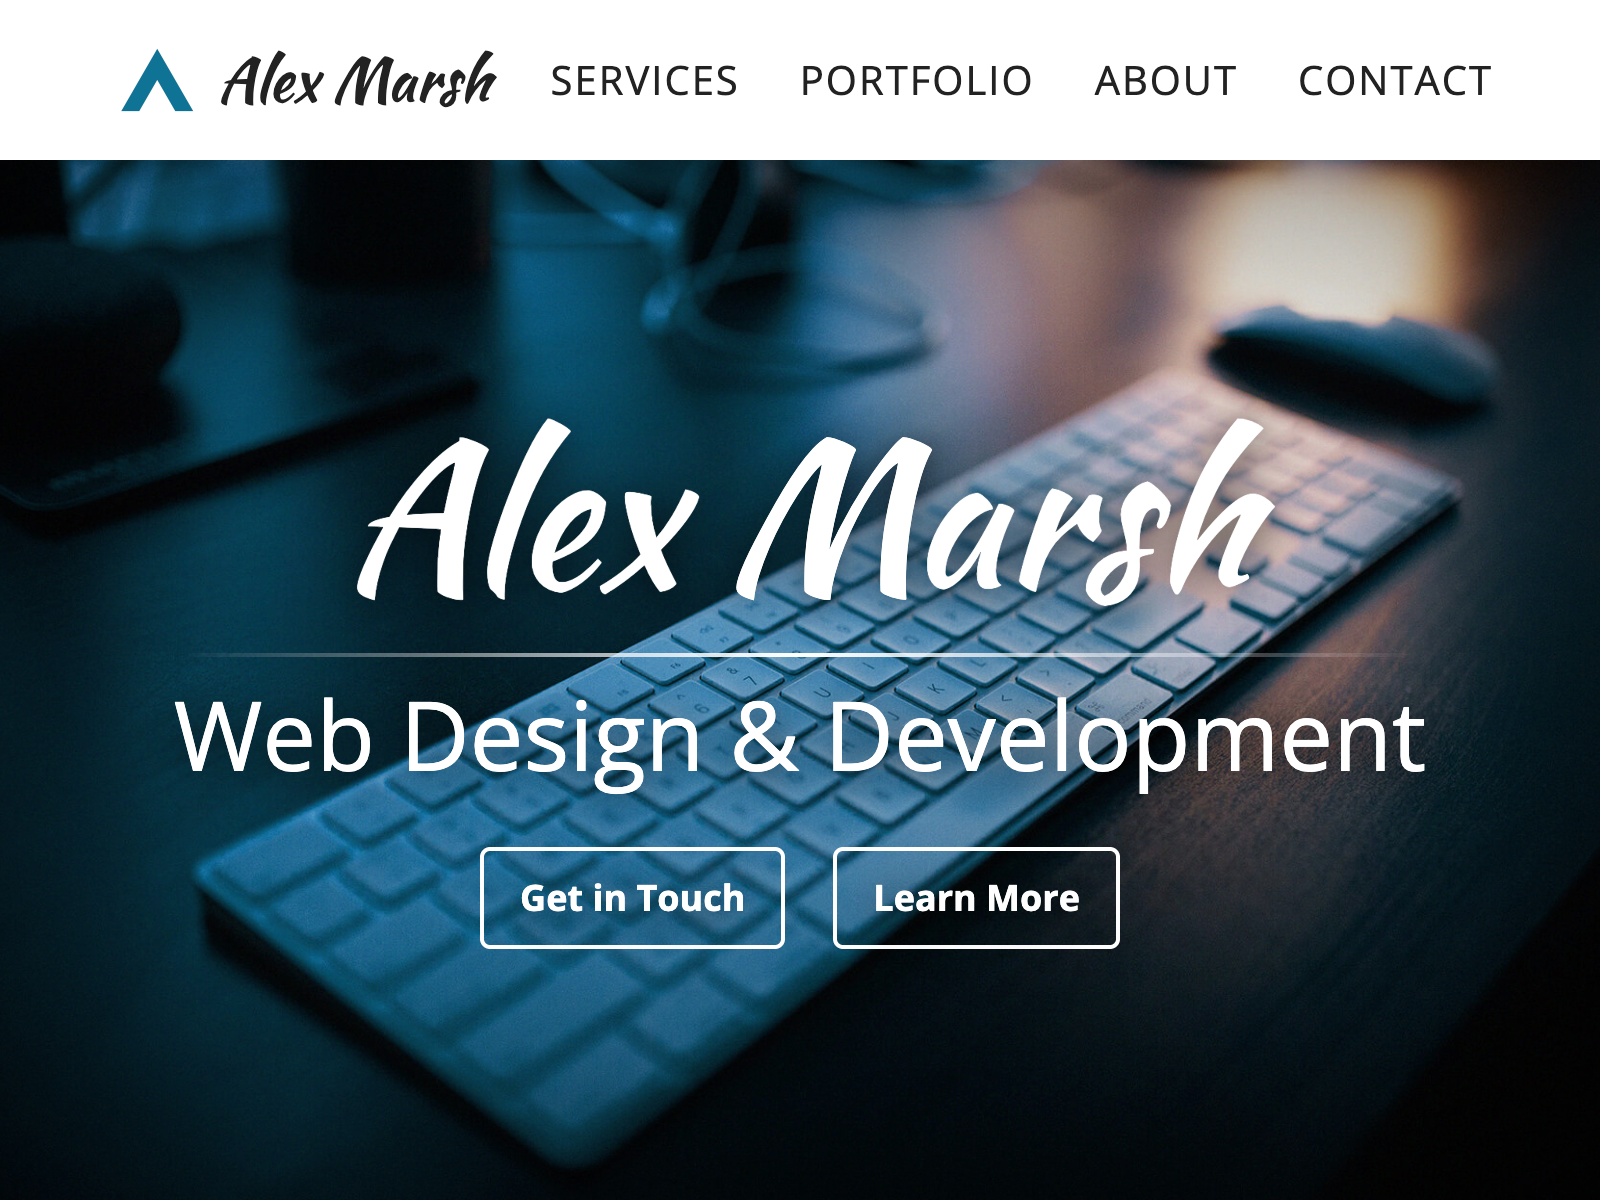
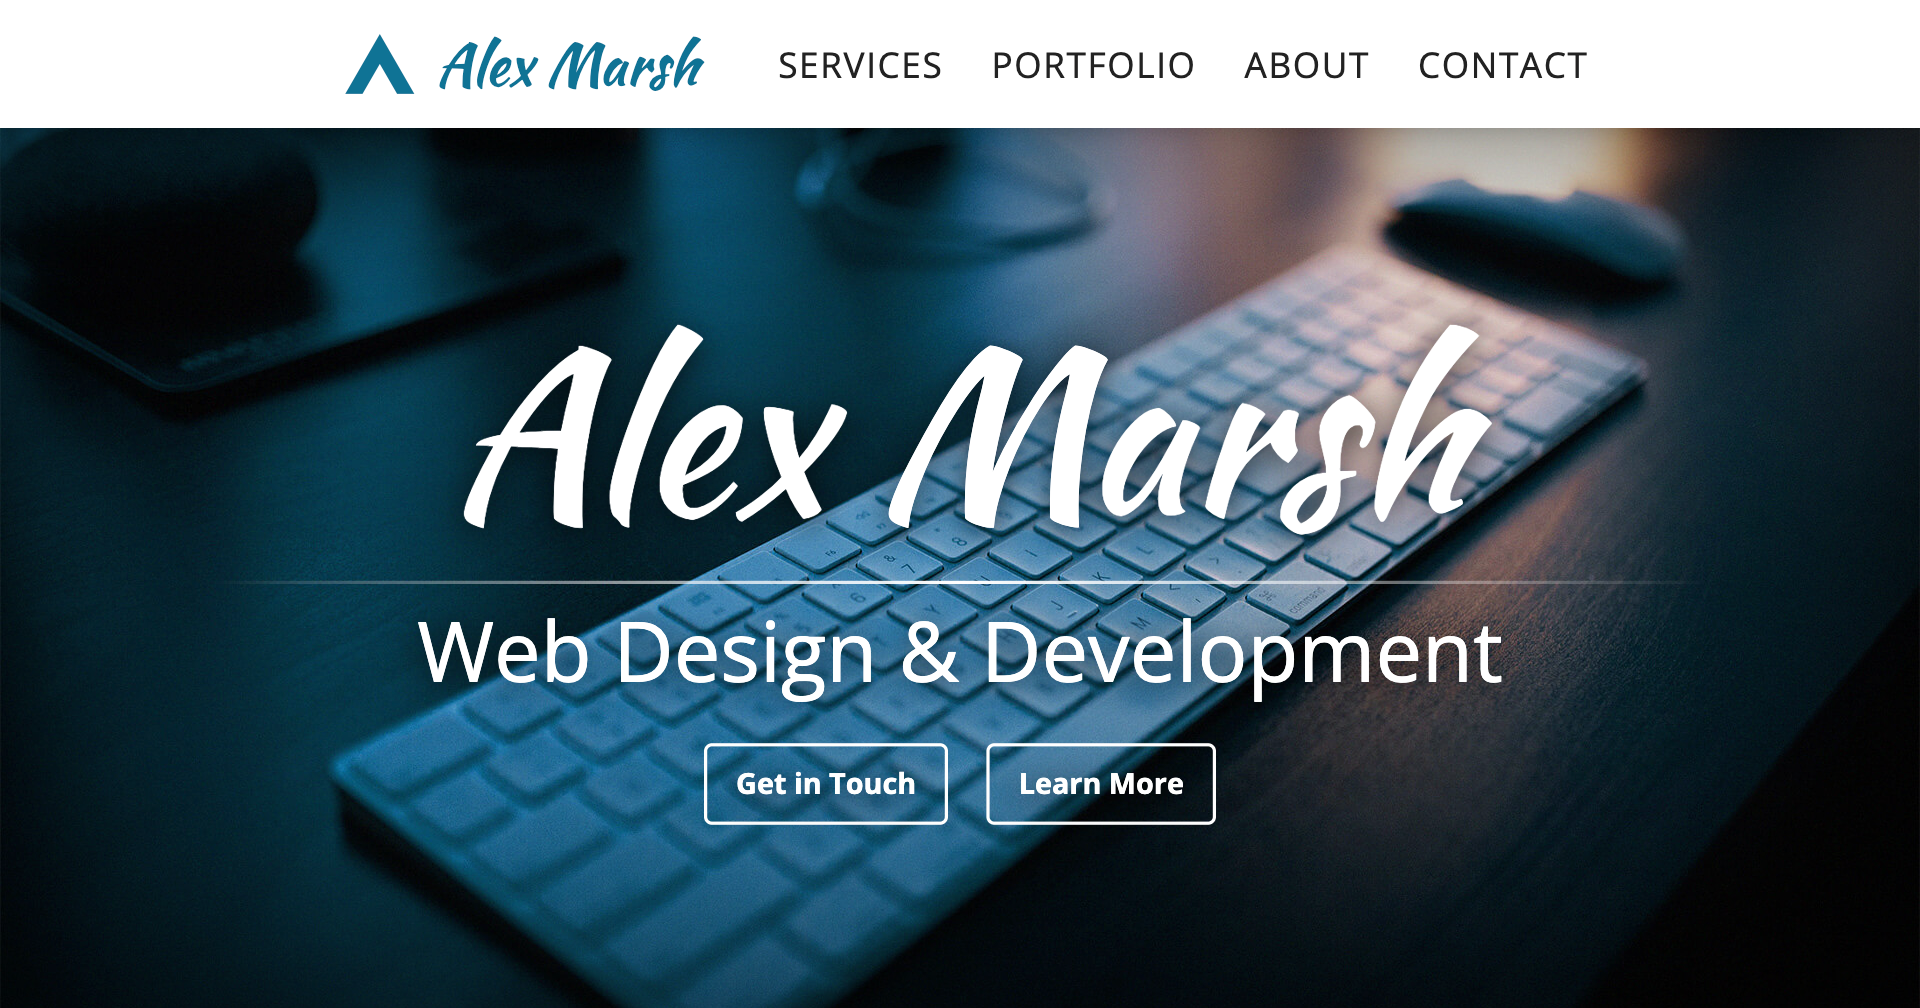
update screenshot image size

diff --git a/src/app/layout.tsx b/src/app/layout.tsx
@@ -46,8 +46,8 @@ export const metadata: Metadata = {
         images: [
             {
                 url: "/img/screenshot.png",
-                width: 800,
-                height: 600,
+                width: 1200,
+                height: 630,
                 alt: "Alex Marsh Website Preview",
             },
         ],
